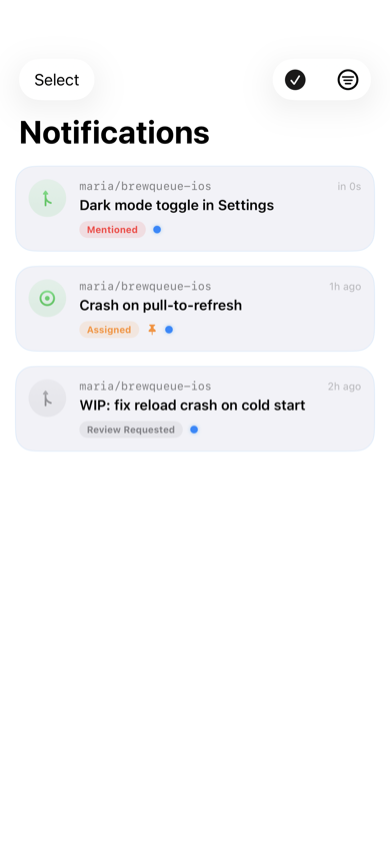
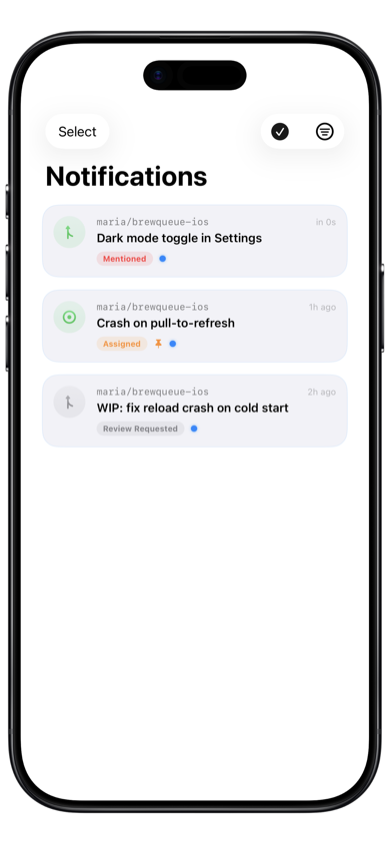
fix: use marketing/screenshots UI captures on the site (#31)
Replace app-store bezel assets with raw screenshots from GitBobaApp; add refresh script and a smaller home image for docs.

diff --git a/docs/index.html b/docs/index.html
@@ -103,7 +103,7 @@
               <h3>Install GitBoba</h3>
               <p>Download the app from the <a href="/download/">App Store</a>. GitBoba is free.</p>
               <figure class="docs-figure">
-                <img src="/images/screenshot-home.png" width="390" height="844" loading="lazy" decoding="async" alt="GitBoba home screen — repos, pull requests, and issues on iPhone">
+                <img src="/images/screenshot-home-docs.png" width="390" height="844" loading="lazy" decoding="async" alt="GitBoba home screen — repos, pull requests, and issues on iPhone">
                 <figcaption>Home feed after you connect your server.</figcaption>
               </figure>
             </div>
